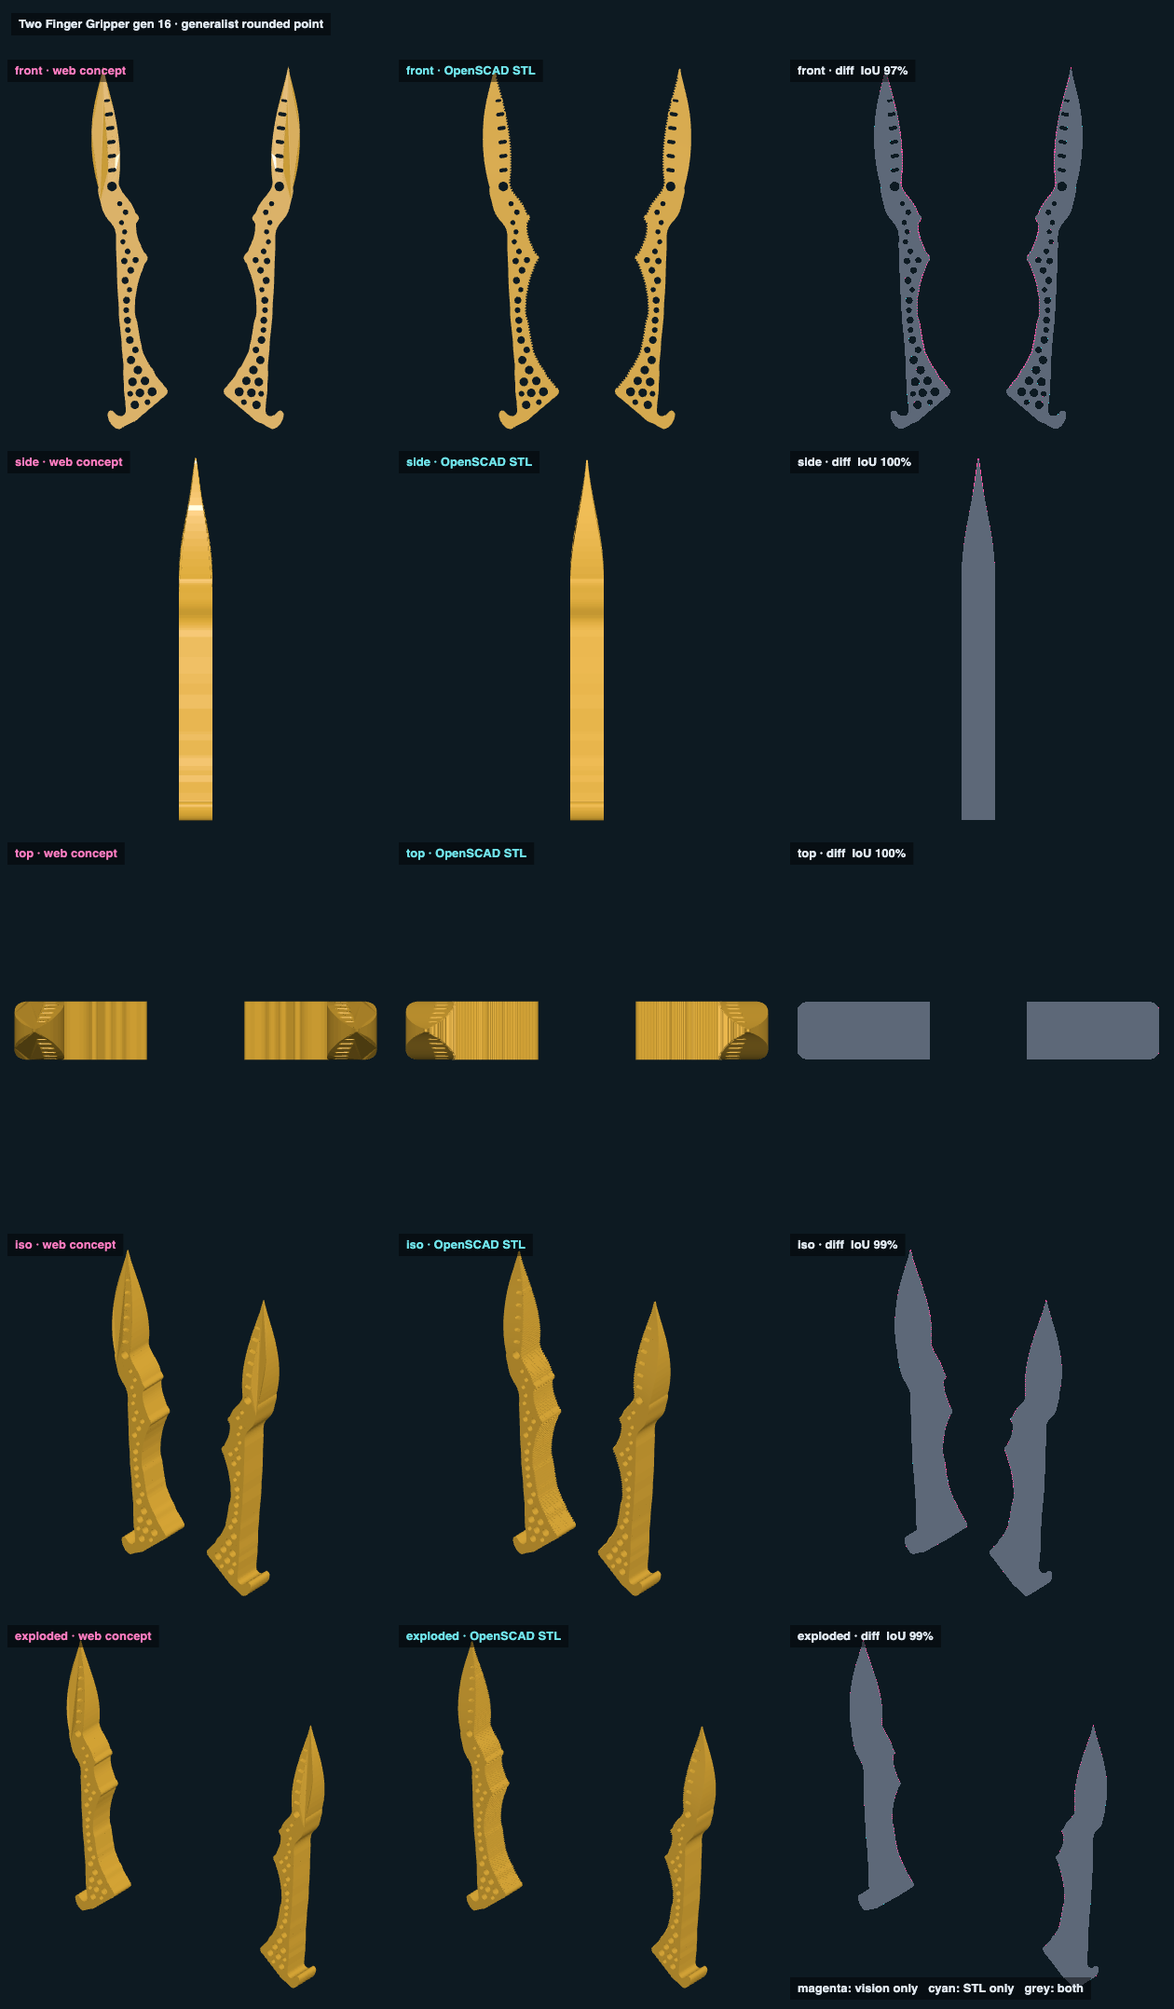
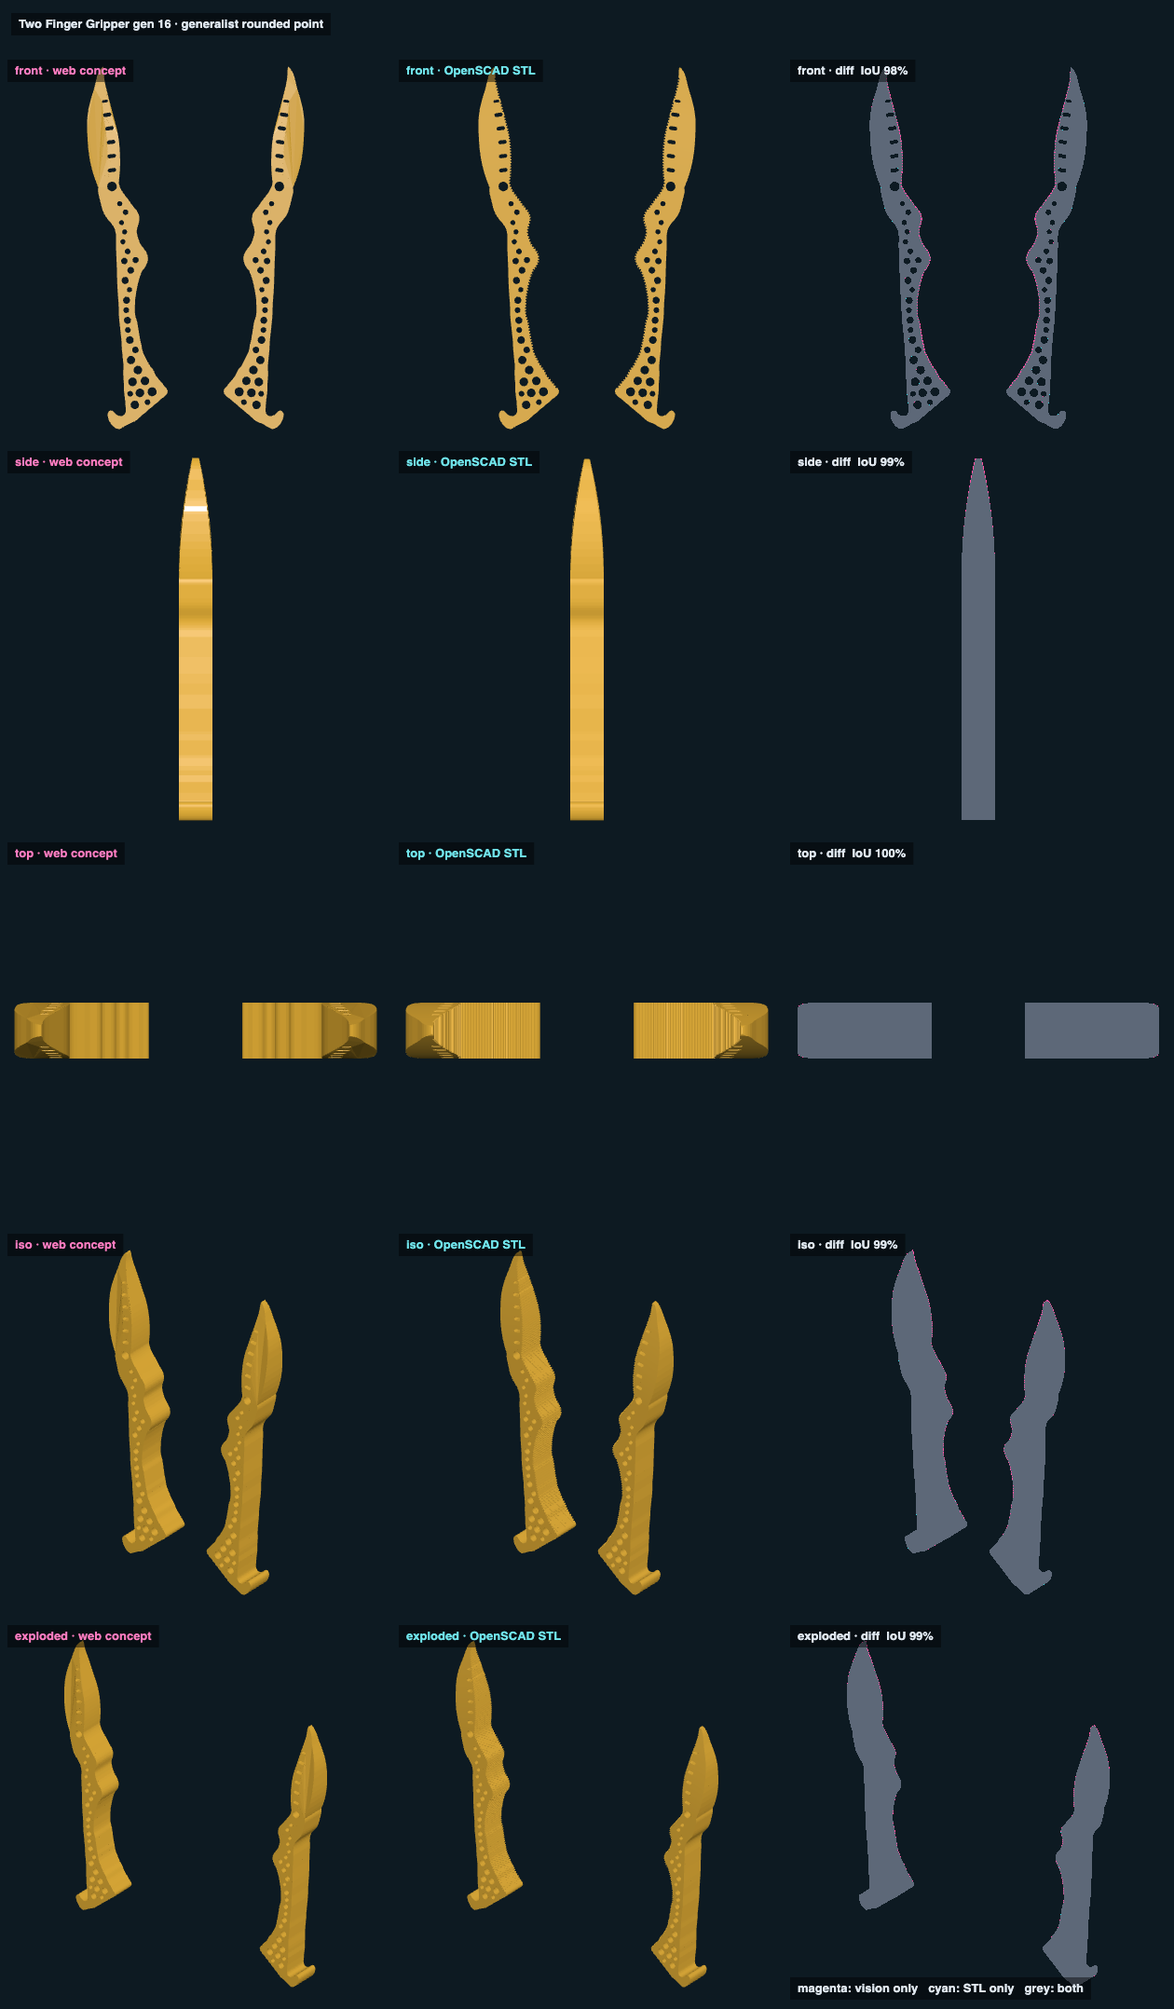
feat(gripper): Gen 16 r2 rounder knobs, 30 deg V, thick rounded tip (voice-1fc7e062)

diff --git a/Two Finger Gripper/versions/v016_generalist_rounded_point/web/concept.js b/Two Finger Gripper/versions/v016_generalist_rounded_point/web/concept.js
@@ -1,13 +1,12 @@
 // Gen 16 · the VISION, not the print. The plan outline and holes gripper.scad traces (web/concept.json, written by
-// export_models.py), extruded to the plate and pinched to Gen 9's eased taper past the dot, both fingers at the
+// export_models.py), extruded to the plate and pinched to the side taper past the dot (r2: a parabola), both fingers at the
 // gallery's 15 deg. No rounding, grooves or point nub: render_compare shows what the solid adds and loses.
 
 export default async function build(THREE, { material }) {
   const c = await (await fetch(new URL('./concept.json', import.meta.url))).json();
-  const ease = (t) => 0.5 * t * t * (2 - t) + 0.5 * t * t * (3 - 2 * t);   // gripper.scad, from Gen 9
   const half = (z) => {
     const f = Math.min(1, Math.max(0, (z - c.dot_z) / (c.tip_z - c.dot_z)));
-    return (c.plate - (c.plate - c.tip_thick) * ease(f)) / 2;
+    return (c.plate - (c.plate - c.tip_thick) * f * f) / 2;   // gripper.scad half_thick
   };
   const shape = new THREE.Shape(c.outline.map(([x, z]) => new THREE.Vector2(x, z)));
   for (const [x, z, d] of c.holes) shape.holes.push(new THREE.Path().absarc(x, z, d / 2, 0, 2 * Math.PI, true));

diff --git a/Two Finger Gripper/versions/v016_generalist_rounded_point/trace_photo.py b/Two Finger Gripper/versions/v016_generalist_rounded_point/trace_photo.py
@@ -68,17 +68,20 @@ SMOOTH_SIGMA=4.0        # Gen 16, from Gen 9: px, periodic Gaussian along the tr
 # Gen 16: the inner edge between the head and the beak. Gen 15 had two square knobs there (a 6 mm step at x 637 and a
 # bump at x 680-690). Now a smooth ramp (base) with two rounded swells, each KNOB_SWELL_PX proud along the edge's
 # normal over a cos^2 window of the given half-width: where Gen 15's knobs were, ~1 mm high instead of ~6.
-KNOB_SWELL_PX=5.0       # 1.0 mm at 0.2 mm/px
+KNOB_SWELL_PX=6.0       # 1.2 mm at 0.2 mm/px. r2: 5.0 (1 mm) over a narrow window read as a knob, not a bump
 KNOBS=dict(base=[(606,456.3),(618,457.6),(630,462),(641,471),(652,482),(664,491),(677,497),(690,502),(701,510),
                  (710,521),(717,533),(724,544),(732,551.5),(740.6,554.6)],
-           swells=[((627,461),13.0),((687,500.5),11.0)])   # (centre px, half-width px) along the edge
+           swells=[((627,461),30.0),((687,500.5),28.0)])   # (centre px, half-width px) along the edge. r2 (Jake: "really
+                                                           # rounded"): 30/28, ~2.3x wider, crest radius ~4 mm (r1: 13/11, ~1.4 mm)
+KNOB_BASE_SIGMA=6.0     # r2: px, Gaussian along the ramp before the swells, so its own bends don't put corners at their feet
 # Needle tip (Gen 10, round 2). Past the black dot the blade is generated, not traced. It
 # narrows evenly from the dot to a point on the dot->TIP centreline (top.png: a centred,
 # pencil-like point). Half-widths are the traced ones at the dot, times
 # g(f)=(1-f)(1+A f), f=s/L, with A per edge: convex, with no corner. It is about 1/3 width just before the
 # point, and each edge meets the centreline at ~24 deg (side.png, robot.png).
 # TIP is the centre of the photo's dark nub, so the yellow stops where the nub begins.
-NEEDLE=dict(TIP=(846.0,606.0),HALF=(26.5,24.5),A=(1.31,2.8))   # inner, outer: half-width at the dot (px) and fullness
+# Gen 16 r2: outer A 2.8 -> 4.0. The closed photo's outer edge stays full and then rounds in to a thick tip.
+NEEDLE=dict(TIP=(846.0,606.0),HALF=(26.5,24.5),A=(1.31,4.0))   # inner, outer: half-width at the dot (px) and fullness
 # Gen 15 (voice-8673a6b6): the beak past the black dot is BEAK_STRETCH times longer along the finger, its point at the same
 # x, so dot -> point is a third of the finger (Gen 14: 24.8 of 109.4 mm, 23%; the closed photo shows ~38% from the dots).
 # Everything behind the dot is Gen 14's. The beak keeps Gen 14's widths at the same fraction of its length, so it is
@@ -128,7 +131,11 @@ def curve(pts,step=1.0):
 def knobs():
     """Gen 16's inner edge mid-shank: the base ramp plus two rounded 1 mm swells, pushed out along the outward normal
     (the finger is below the edge in the photo, so outward is the edge's left-hand normal)."""
-    B=curve(KNOBS['base']);t=np.gradient(B,axis=0);t/=np.hypot(*t.T)[:,None];n=np.c_[t[:,1],-t[:,0]]
+    B=curve(KNOBS['base']);k=int(3*KNOB_BASE_SIGMA)
+    S=np.c_[nd.gaussian_filter1d(B[:,0],KNOB_BASE_SIGMA,mode='nearest'),nd.gaussian_filter1d(B[:,1],KNOB_BASE_SIGMA,mode='nearest')]
+    r=np.clip(np.minimum(np.arange(len(B)),np.arange(len(B))[::-1])/k,0,1);r=r*r*(3-2*r)
+    B=B+(S-B)*r[:,None]   # eased in from both ends, so it still joins the trace without a step
+    t=np.gradient(B,axis=0);t/=np.hypot(*t.T)[:,None];n=np.c_[t[:,1],-t[:,0]]
     s=np.r_[0,np.cumsum(np.hypot(*np.diff(B,axis=0).T))];lift=np.zeros(len(B))
     for c,w in KNOBS['swells']:
         d=np.abs(s-s[np.argmin(np.hypot(*(B-np.array(c)).T))]);lift+=np.where(d<w,np.cos(np.pi/2*d/w)**2,0)
@@ -150,12 +157,25 @@ TIP_SHIFT_FROM=0.55     # the point moves in to the jaw's innermost reach over t
 ROUND_BACK=1.0          # mm: Gen 15: the slimmer point loses more to the 0.3 mm round (gripper.scad tip_r), so the contact sits ~1.0 mm
                         # behind the trace (measured on the mesh: innermost reach at z 123.35, trace point 124.31). Gen 14: 0.4; Gen 13: 1.8
                         # Gen 13: 1.8 (its 1 mm round left two nubs and a small V in front of the contact)
-WEDGE=dict(half_deg=4.5,cap=0.40,over=0.10,k=6)   # Gen 15: 4.5 deg to 0.40 mm (Gen 14: 4 deg to 0.35). Gen 14's model met ~0.6 mm
+WEDGE=dict(half_deg=15.0,cap=2.0,over=0.10,k=6)   # Gen 16 r2 (Jake: "the gap opens up rapidly going back from the tip", 6.8 deg
+                        # was too narrow; the closed photo, cad/reference/generalist_gripper_gen6_closed.png, is the key reference): 15 deg each
+                        # side (30 included) to a 2 mm gap, about what the jaw already has 25 mm back, so the gap never narrows again
+                        # (3 mm left a parallel slot that stepped back in at the shoulder).
+WEDGE_R1=dict(half_deg=4.5,cap=0.40,over=0.10,k=6)   # Gen 16 r1's wedge; the outer edge moves out by what r2 cuts beyond it (KEEP_WIDTH)
+KEEP_WIDTH=1.0          # r2 (Jake: "make the tip thicker"): fraction of the extra inner cut added back on the outer edge, so the beak
+                        # keeps r1's width and bends away from the jaw instead of getting thinner
+# Gen 15: 4.5 deg to 0.40 mm: 4.5 deg to 0.40 mm (Gen 14: 4 deg to 0.35). Gen 14's model met ~0.6 mm
                         # behind its designed contact, which made its 1-2 mm included angle read 6.6 deg; on target, 4/0.35 gives only 5.7.
                         # Gen 14: each inner edge leaves the contact at 4 deg (8 deg included) and the
                         # wedge levels off at a 0.35 mm gap; further back the gap is the photo's curve + 0.10 mm. A smooth max (power
                         # k) joins the two, so the gap only ever grows. r1 kept the whole wedge on (~0.5 mm over the photo
                         # the length of the jaw); the r1 review read that as a slit and asked for it to fade (r2)
+NOSE=dict(mm=7.0,a=0.35,b=0.35,deg=65)   # Gen 16 r2, from the closed photo: "approaching the tip on the outside, the profile rounds inward into
+                        # the final tip, but the tip itself stays relatively thick". The last NOSE['mm'] of the outer edge is a cubic
+                        # Bezier leaving the edge along its own tangent (handle a x chord) and arriving at the point deg off the
+                        # finger's axis (handle b x chord): a full, rounded nose instead of r1's straight 45 deg run in to a needle.
+                        # Square on (90 deg) read as a dome, not a point. 7 mm, not 6: gripper.scad tip_zone cuts at 6, and a
+                        # shared vertex there left a non-manifold edge
 JAW_FOLLOW=(21,26)      # mm behind the contact: the jaw edge IS the closed-gap curve up to 21 mm, blending into Gen 11's shoulder by 26 (r2; r1 18-24 opened too fast at 19-24 mm)
 def to_mm(q):
     a=np.radians(FRAME['deg']);d=np.subtract(q,FRAME['pivot'])
@@ -169,26 +189,36 @@ def stretch_z(q):   # Gen 15: photo px -> px with the finger stretched BEAK_STRE
 TIP_PHOTO=NEEDLE['TIP'];NEEDLE['TIP']=stretch_z(TIP_PHOTO)
 GAP=json.loads((HERE/'closed_trace.json').read_text())['gap_fit']
 photo_gap=lambda d:GAP['A']*max(0.0,d)**GAP['P']   # mm apart at d mm behind the point, closed, as measured (trace_closed.py)
-def closed_gap(d):   # Gen 14's target: opened sharply at the point, the photo's curve further back
-    d=max(0.0,d);w=WEDGE;d0=w['cap']/(2*np.tan(np.radians(w['half_deg'])))   # slope 2 tan(4 deg) at the contact
+def closed_gap(d,w=None):   # Gen 14's target: opened sharply at the point, the photo's curve further back
+    d=max(0.0,d);w=w or WEDGE;d0=w['cap']/(2*np.tan(np.radians(w['half_deg'])))   # slope 2 tan(4 deg) at the contact
     wedge=w['cap']*np.tanh(d/d0);rear=photo_gap(d)+w['over']*np.tanh(d/d0)
     return (wedge**w['k']+rear**w['k'])**(1/w['k'])
 
 
-def closed_jaw(n=48):
+def closed_jaw(n=48,r1=False):
     """Gen 11 r4's beak, made to close the way the photo does. The point moves in to x_c, the innermost
     reach of Gen 11's jaw (both edges blend over the last 45%). The jaw edge follows x_c + g(d)/2 up to
     JAW_FOLLOW[0] mm back, then blends into Gen 11's edge, and never comes inside x_c + g(d)/2, so two
-    mirrored fingers touch at the point only. Returns (inner, outer) px."""
+    mirrored fingers touch at the point only. r1: Gen 16 r1's beak (its wedge, no KEEP_WIDTH, no nose). Returns (inner, outer) px."""
     L,edge=needle_frame();ss=np.linspace(0,L,n)
     inner=np.array([to_mm(edge(s,-1)) for s in ss]);outer=np.array([to_mm(edge(s,1)) for s in ss])
     xc=inner[:,0].min();tip=inner[-1];dx=xc-tip[0]
     t=np.clip((ss/L-TIP_SHIFT_FROM)/(1-TIP_SHIFT_FROM),0,1);w=t*t*(3-2*t)
-    want=np.array([xc+closed_gap(tip[1]-ROUND_BACK-z)/2 for z in inner[:,1]])
     b=np.clip((tip[1]-ROUND_BACK-inner[:,1]-JAW_FOLLOW[0])/(JAW_FOLLOW[1]-JAW_FOLLOW[0]),0,1);b=b*b*(3-2*b)
-    inner[:,0]=np.maximum(want,want+(inner[:,0]+dx*w-want)*b)
-    outer[:,0]+=dx*w
+    def jaw(wedge):
+        want=np.array([xc+closed_gap(tip[1]-ROUND_BACK-z,wedge)/2 for z in inner[:,1]])
+        return np.maximum(want,want+(inner[:,0]+dx*w-want)*b)
+    x=jaw(WEDGE_R1 if r1 else WEDGE);outer[:,0]+=dx*w+(0 if r1 else KEEP_WIDTH)*(x-jaw(WEDGE_R1));inner[:,0]=x
+    if not r1:outer=nose(outer,inner[-1])
     return [to_px(m) for m in inner],[to_px(m) for m in outer]
+
+
+def nose(outer,tip):
+    """Gen 16 r2: replace the outer edge's last NOSE['mm'] (in z) with a rounded nose into the point. mm in, mm out."""
+    i=np.searchsorted(outer[:,1],tip[1]-NOSE['mm']);p0=outer[i-1];t0=outer[i]-outer[i-2];t0/=np.hypot(*t0)
+    L=np.hypot(*(tip-p0));p1=p0+t0*NOSE['a']*L;q=np.radians(NOSE['deg']);p2=tip+np.array([np.sin(q),-np.cos(q)])*NOSE['b']*L
+    u=np.linspace(0,1,40)[1:,None];b=(1-u)**3*p0+3*(1-u)**2*u*p1+3*(1-u)*u*u*p2+u**3*tip
+    return np.vstack([outer[:i],b])
 
 
 def needle(n=48):
@@ -200,13 +230,13 @@ def beak_slots(photo):
     """Gen 15: each photo slot keeps its fraction of the beak's length (stretch_z) and of its width at that point,
     measured inner -> outer edge on Gen 14's beak and placed on the longer one. Keeping x alone left the slots
     hugging the jaw, where the beak is slimmer per mm, and the last one broke through."""
-    def edges(tip):
+    def edges(tip,r1=False):
         keep=NEEDLE['TIP'];NEEDLE['TIP']=tip
-        try:inner,outer=(np.array([to_mm(q) for q in e]) for e in closed_jaw(200))
+        try:inner,outer=(np.array([to_mm(q) for q in e]) for e in closed_jaw(200,r1))
         finally:NEEDLE['TIP']=keep
         x=lambda e,z:np.interp(z,*(e[np.argsort(e[:,1])][:,::-1].T))
         return lambda z:(x(inner,z),x(outer,z))
-    old,new=edges(TIP_PHOTO),edges(NEEDLE['TIP']);out=[]
+    old,new=edges(TIP_PHOTO,True),edges(NEEDLE['TIP']);out=[]   # Gen 16 r2: fractions read on r1's beak, so the wider V moves the slots out with the jaw
     for q in photo:
         m=to_mm(q);a,b=old(m[1]);f=(m[0]-a)/(b-a);z=to_mm(stretch_z(q))[1];a,b=new(z)
         out.append(tuple(to_px((a+f*(b-a),z))))

diff --git a/Two Finger Gripper/versions/v016_generalist_rounded_point/check_geometry.py b/Two Finger Gripper/versions/v016_generalist_rounded_point/check_geometry.py
@@ -10,7 +10,7 @@ SCAD='/Applications/OpenSCAD.app/Contents/MacOS/OpenSCAD'
 ANGLES=list(range(0,31))
 STEP=400
 GAP_TOL=0.12   # mm: the closed gap may differ from Gen 14's target curve by this much, 1 to 20 mm behind the point
-CONTACT_DEG=6  # the jaws' included angle, from the gap's slope 1 to 2 mm behind the point, must be at least this (designed 8; Gen 13: ~0)
+CONTACT_DEG=20  # the jaws' included angle, from the gap's slope 1 to 2 mm behind the point, must be at least this (Gen 16 r2: designed 30, Jake "much wider"; r1: 6; Gen 13: ~0)
 CONTACT_LEN=1.5   # pushed 0.02 mm together, the fingers may overlap only this far behind the contact (Gen 13: 6 mm)
 
 
@@ -65,8 +65,9 @@ def gap_profile():
     for d in [0.5,1,1.5,2,3,4,6,8,10,12,14,16,18,20,22]:
         # Gen 15: the mesh cut at that z, not vertices near it. Gen 16: where there are grooves (>= 3 mm back) a cut can land
         # in a groove bottom, so take the ridge tops: the innermost reach over one 1 mm groove pitch around z
-        xs=[x for k in ([0] if d<3 else [i/10 for i in range(-5,6)]) for x in slice_x(V,zc-d+k)]
-        if xs:rows.append(dict(d_mm=d,model_gap=round(2*(min(xs)-xc),3),target_gap=round(tp.closed_gap(d),3),photo_gap=round(tp.photo_gap(d),3)))
+        ks=[0] if d<3 else [i/10 for i in range(-5,6)];xs=[x for k in ks for x in slice_x(V,zc-d+k)]
+        # Gen 16 r2: the target read the same way (its least gap over that window), or the 30 deg wedge's slope reads as error
+        if xs:rows.append(dict(d_mm=d,model_gap=round(2*(min(xs)-xc),3),target_gap=round(min(tp.closed_gap(d-k) for k in ks),3),photo_gap=round(tp.photo_gap(d),3)))
     worst=max(abs(r['model_gap']-r['target_gap']) for r in rows if 1<=r['d_mm']<=20)
     mono=all(a['model_gap']<=b['model_gap']+5e-3 for a,b in zip(rows,rows[1:]))
     g=lambda d:next(r['model_gap'] for r in rows if r['d_mm']==d);deg=2*math.degrees(math.atan((g(2)-g(1))/2))

diff --git a/Two Finger Gripper/versions/v016_generalist_rounded_point/README.md b/Two Finger Gripper/versions/v016_generalist_rounded_point/README.md
@@ -17,10 +17,27 @@ design (Jake, 2026-10-19). It is the "Actual (Generalist)" → "Closed" photo in
 
 Check every finger revision against this photo first.
 
-## What changed from Gen 15
+## Round 2 (Jake: edit Gen 16 in place)
+
+*"Round the two bump-outs along the length even further — really rounded. Make the tip thicker; it should still come to
+a single point where the two sides touch. Behind the tip the two sides should diverge at a sharper angle ... much
+wider."* Matched to the closed photo above. `previews/compare_closed_photo.png`: photo, closed top view, closed tip, edge.
+
+- **Knobs.** Each swell is ~2.3× wider (`KNOBS` half-widths 30/28 px, was 13/11) and 1.2 mm high, so the crest radius is
+  ~4 mm (was ~1.4). The ramp under them is smoothed first (`KNOB_BASE_SIGMA`), so their feet have no corners.
+- **The V.** Closed, each inner edge leaves the point at 15° (30° designed, 26° measured 1–2 mm back; was 6.8°) and the
+  gap levels off at 2 mm (`WEDGE`), about what the jaw already has 25 mm back, so it never narrows again.
+- **Thick tip, plan view.** The outer edge moves out by whatever the wider V cuts from the inner edge (`KEEP_WIDTH`), so
+  the beak keeps its width. Its last 7 mm is a rounded nose (`NOSE`) that arrives at the point 65° off the axis, not r1's
+  straight 45° run in.
+- **Thick tip, side view.** `tip_thick` 0.5 → 2.4 mm, with a parabola taper (full until near the point, then rounding in)
+  in place of Gen 9's concave `ease()` needle.
+- Slots keep their place across the beak, measured on r1's beak (`beak_slots`); otherwise the wider V broke two through.
+
+## What changed from Gen 15 (round 1)
 
 - **Length, beak, holes, slots and closed contact are Gen 15's.** Dot → point is still ~42 mm. Closed, only the points
-  touch, with a 6.8° V behind them.
+  touch, with a 6.8° V behind them (r2: 30°).
 - **The knobs are rounded.** Gen 15 had two square knobs on the inner edge, mid-shank: a ~6 mm step and a bump. Now
   that edge is one smooth ramp with two rounded swells, 1 mm proud (`trace_photo.py KNOBS`, `KNOB_SWELL_PX`). I read
   "ridges, about 1 mm" as these knobs. The 0.4 mm serration grooves are unchanged.
@@ -36,7 +53,7 @@ Check every finger revision against this photo first.
 
 `web/concept.js` is the three.js vision: the traced outline and holes, extruded and pinched to the taper.
 `Scripts/render_compare two-finger-gripper-v016-generalist-rounded-point` draws it beside the STLs with the same cameras →
-`previews/compare_web_stl.png`, `compare_web_stl.md`. Overlap: front 97 %, side 100 %, top 100 %, iso 99 %. The front
+`previews/compare_web_stl.png`, `compare_web_stl.md`. Overlap: front 98 %, side 100 %, top 100 %, iso 99 %. The front
 fringe is the grooves and edge rounding, which only the STL has. `cad/compare/designs.py` now picks up any version folder
 that has a `web/concept.js`.
 
@@ -47,15 +64,17 @@ that has a `web/concept.js`.
 - `check_geometry.py`:
   - no collision from 1 to 30°;
   - closed, the fingers touch with no overlap;
-  - pushed 0.02 mm together, they overlap only at the point (z 123.21–123.43);
-  - the gap is within 0.085 mm of Gen 15's target from 1 to 20 mm back;
-  - the included angle is 6.8°.
-  The gap is read at the ridge tops (innermost over a 1 mm groove pitch) wherever there are grooves. A single cut could
-  land in a groove bottom and read 0.8 mm too wide.
+  - pushed 0.02 mm together, they overlap only at the point (z 123.31–123.86);
+  - the gap is within 0.033 mm of the `WEDGE` target from 1 to 20 mm back;
+  - the included angle is 26.4° (check: ≥ 20°).
+  The gap is read at the ridge tops (innermost over a 1 mm groove pitch) wherever there are grooves, and the target is
+  read the same way (r2: the 30° wedge changes 0.5 mm across that window). A single cut could land in a groove bottom.
 - Pivots are at ±27.2517 mm (`cad/mobile_gallery/poses.js`).
 
 ## Limits
 
-- Nothing is printed. A 0.5 mm point is one or two extrusion lines thick and may be fragile.
+- Nothing is printed. r2's 2.4 mm tip is sturdier than r1's 0.5 mm.
+- The 30° V and 2 mm gap are read by eye from the closed photo, not measured (`closed_trace.json`'s fitted gap is far
+  narrower; the photo can't resolve it).
 - "About 1 mm" is read as the knob height. If it meant the serration grooves, change `ridge` in `gripper.scad`.
 - The knob ramp and swells are hand-drawn in photo px, not traced.

diff --git a/Two Finger Gripper/versions/v016_generalist_rounded_point/compare_web_stl.md b/Two Finger Gripper/versions/v016_generalist_rounded_point/compare_web_stl.md
@@ -7,19 +7,19 @@
 <!-- render_compare:begin -->
 | View | Overlap (IoU) | Vision only px | STL only px |
 |---|---|---|---|
-| front | 97% | 432 | 28 |
-| side | 100% | 60 | 0 |
-| top | 100% | 2 | 0 |
-| iso | 99% | 180 | 5 |
-| exploded | 99% | 139 | 6 |
+| front | 98% | 406 | 27 |
+| side | 100% | 64 | 0 |
+| top | 100% | 8 | 0 |
+| iso | 99% | 229 | 6 |
+| exploded | 99% | 150 | 3 |
 
 <!-- render_compare:end -->
 
 ## Differences and why
 
-- Front 97%: the fringe along each inner edge is the 0.4 mm grooves and the 0.5 mm / 1.2 mm edge rounding, which only the
+- Front 98%: the fringe along each inner edge is the 0.4 mm grooves and the 0.5 mm / 1.2 mm edge rounding, which only the
   STL has. The concept is the bare traced outline and holes; this is the expected gap.
-- Side, top 100%: Gen 9's eased taper to the 0.5 mm point matches; the STL's 0.25 mm nub at the very point is below a pixel.
+- Side, top 100%: r2's parabola taper to the 2.4 mm tip matches; the STL's rounded nub at the very point is about a pixel.
 
 ## Fix list
 
